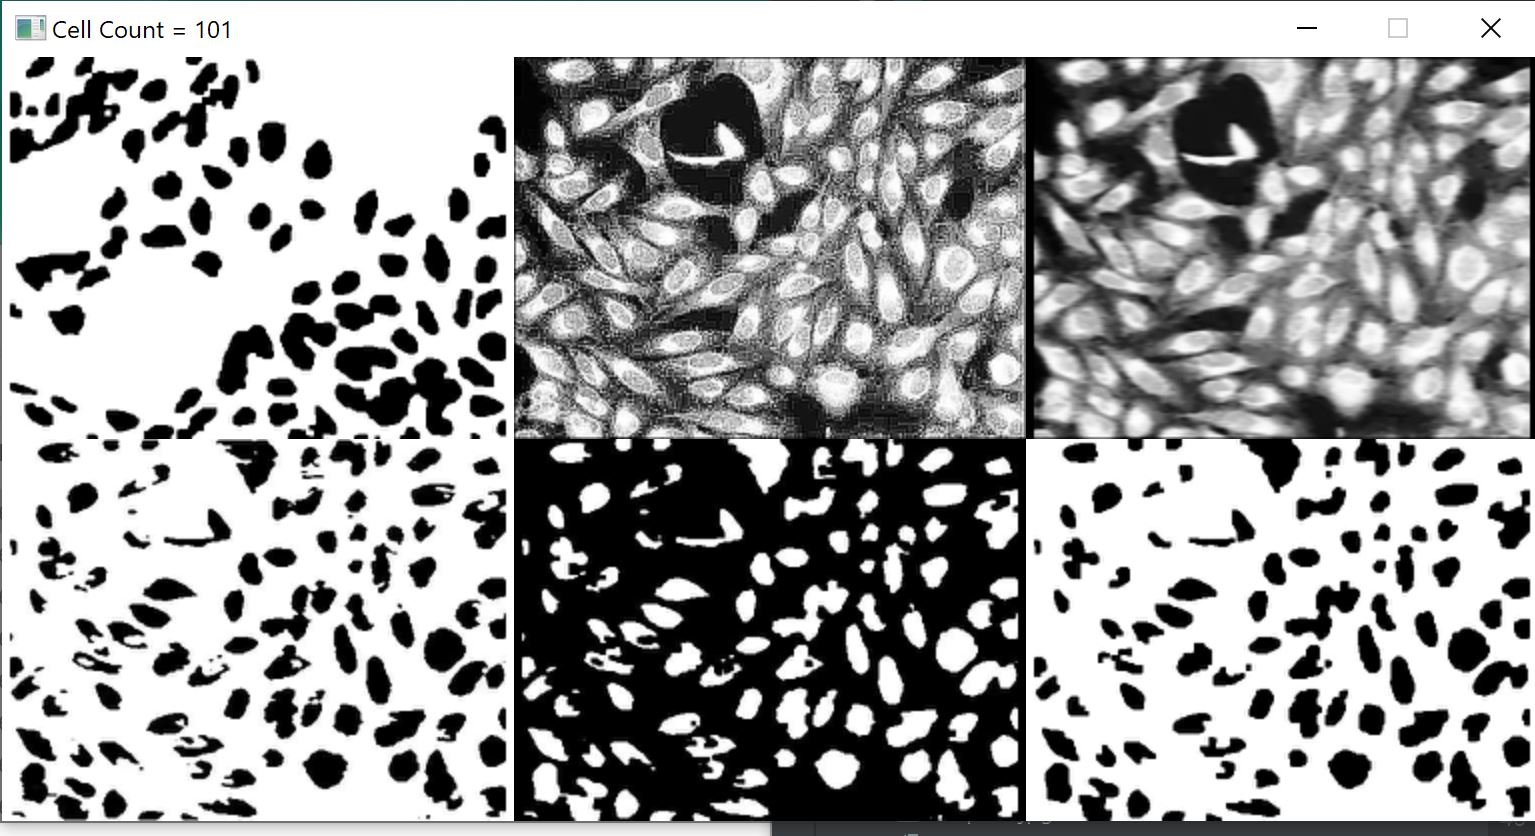
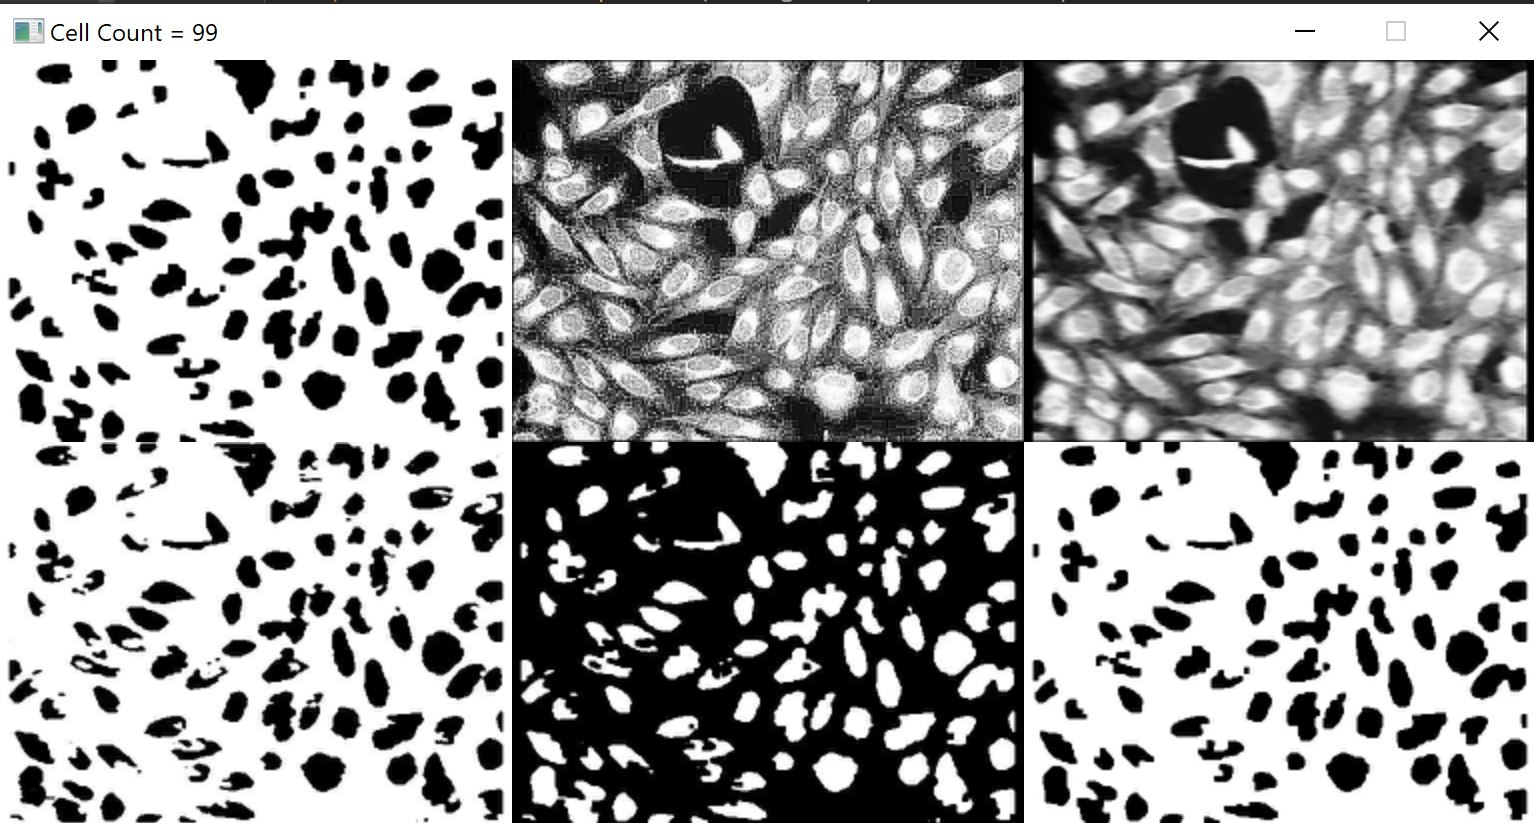
tweaked gaussian code to drop the error

diff --git a/src/counter.java b/src/counter.java
@@ -45,7 +45,7 @@ public class counter extends Application
           map = new int[image.getWidth()][image.getHeight()];
           createMap();
           countCells();
-          System.out.println(count-2);
+          System.out.println("Cell Count = "+(count-2));
     }
     //method converts black pixels to 1 and white to 0 in the 2d array
     public static void createMap()

diff --git a/src/MedianFilter.java b/src/MedianFilter.java
@@ -11,13 +11,7 @@ import java.awt.image.Kernel;
 
 
 class MedianFilter{
-    //global variables
-    int width;
-    int height;
-    BufferedImage image;
-    BufferedImage image_copy;
-    //2d filter array
-    float[][] filter = {{1,2,1},{2,3,3},{1,2,1}};
+
     public static void main(String [] args)throws IOException
     {
         //check input file

diff --git a/src/GaussianFilter.java b/src/GaussianFilter.java
@@ -28,7 +28,7 @@ public class GaussianFilter {
 
     public static Kernel makeGaussianKernel(float radius) {
         int r = (int)Math.ceil(radius);
-        int rows = r*2+1;
+        int rows = r*2+2;
         float[] matrix = new float[rows];
         float sigma = radius/3;
         float sigma22 = 2*sigma*sigma;
